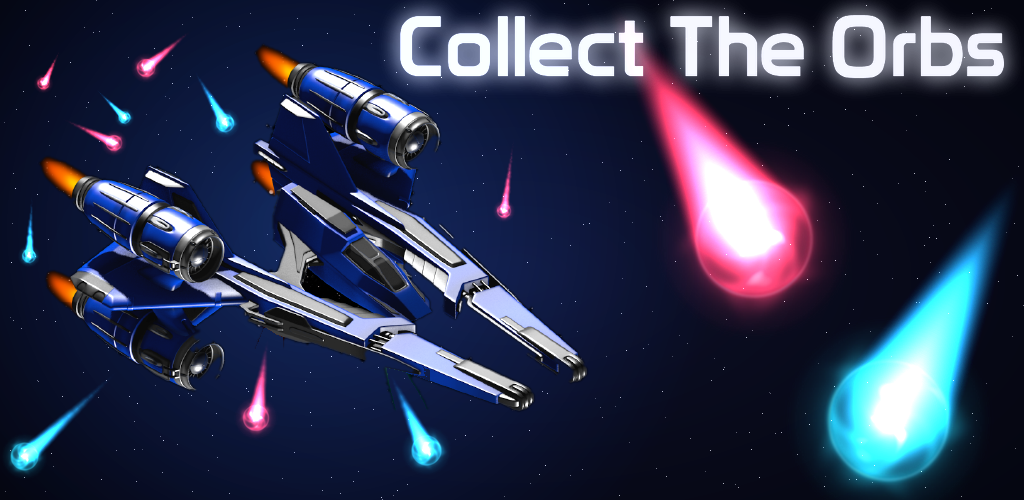
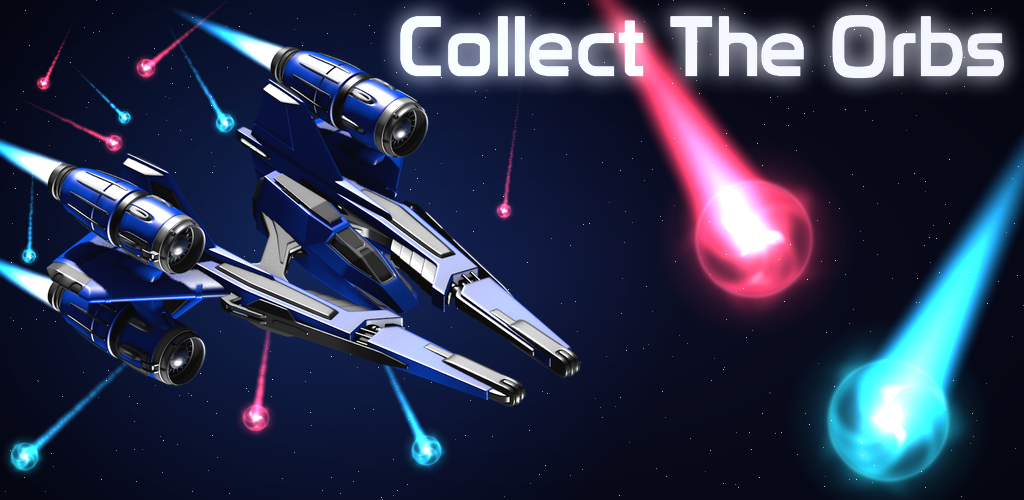
Store art: use the real fighter asset, game-style cyan plumes, longer orb trails

diff --git a/tools/art/store.py b/tools/art/store.py
@@ -97,19 +97,20 @@ def ship_layer(px, angle, ship_i=5):
     return sh.rotate(-angle, Image.BICUBIC, expand=True)
 
 
-def flame(base, tip, angle, length, width):
-    """Engine flame behind a ship pointing at `angle` (degrees clockwise from up): tapered additive glow, orange to white."""
+def flame(base, root, direction, length, width):
+    """Engine plume like the game's: cyan with a white-hot core, tapering away from the nozzle at `root`."""
     import math
-    dx, dy = math.sin(math.radians(angle)), -math.cos(math.radians(angle))
-    n = 40
+    dx, dy = direction
+    n = 60
     for k in range(n):
         f = k / n
-        px, py = tip[0] - dx * length * f, tip[1] - dy * length * f
-        sz = max(2, int(width * (1 - f * 0.8) * 2))
+        px, py = root[0] + dx * length * f, root[1] + dy * length * f
+        sz = max(2, int(width * (1 - f * 0.75) * 2))
         yy, xx = np.mgrid[0:sz, 0:sz].astype(np.float32)
         d = np.hypot(xx - sz / 2, yy - sz / 2) / (sz / 2)
-        al = np.clip(1 - d, 0, 1) ** 1.4 * (1 - f) * 255
-        col = (255, int(190 - 80 * f), int(90 - 60 * f))
+        al = np.clip(1 - d, 0, 1) ** 1.3 * (1 - f) ** 1.4 * 255
+        t = min(1.0, f * 2.2)
+        col = (int(235 - 195 * t), int(250 - 80 * t), 255)
         arr = np.dstack([np.full((sz, sz), col[0]), np.full((sz, sz), col[1]), np.full((sz, sz), col[2]), al]).astype(np.uint8)
         base = add(base, Image.fromarray(arr), (px, py))
     return base
@@ -131,28 +132,36 @@ ICON_ORBS = [
 ]
 
 
-def scene(w, h, orbs, ship_xy, scale=1.0, seed=3):
-    """The original blue fighter (tools/art/src/original_ship.png) with the neon orbs in the original positions."""
+SHIP_NOZZLES = [(395, 62), (52, 238), (52, 422)]   # engine rears in the 859x668 ship art
+SHIP_DIR = (-0.90, -0.43)                           # exhaust direction (away from the front)
+
+
+def scene(w, h, orbs, ship_xy, ship_scale, scale=1.0, seed=3, tail_mul=2.3):
+    """The original blue fighter (tools/art/src/original_ship.png) with game-style plumes and neon orbs in the original positions."""
     import math
     k = scale
     im = background(w, h, seed=seed, stars=1.3)
     sheets = {'b': ((40, 190, 255), img('fx/orb_blue.png'), 4), 'r': ((255, 60, 90), img('fx/orb_red.png'), 9)}
     for (hx, hy), (tx, ty), dia, c in orbs:
         col, sheet, fi = sheets[c]
-        length = math.hypot(hx - tx, hy - ty) * k
-        ang = math.degrees(math.atan2(hy - ty, hx - tx))
         big = dia > 60
-        im = comet(im, (hx * k, hy * k), col, length, ang, dia * k * (0.55 if big else 0.42), sheet, fi, int(dia * k * 1.78))
+        length = math.hypot(hx - tx, hy - ty) * k * (1.6 if big else tail_mul)
+        ang = math.degrees(math.atan2(hy - ty, hx - tx))
+        im = comet(im, (hx * k, hy * k), col, length, ang, dia * k * (0.45 if big else 0.30), sheet, fi, int(dia * k * 1.78))
     ship = Image.open(os.path.join(os.path.dirname(__file__), 'src', 'original_ship.png')).convert('RGBA')
-    ship = ship.resize((int(ship.width * k), int(ship.height * k)), Image.LANCZOS)
-    aura = N.radial(int(ship.width * 1.5), [(0, (40, 120, 255, 70)), (0.6, (30, 90, 230, 30)), (1.0, (20, 60, 200, 0))])
-    cx, cy = ship_xy[0] * k + ship.width / 2, ship_xy[1] * k + ship.height / 2
-    im = add(im, aura, (cx, cy))
+    sc = ship_scale * k
+    ship = ship.resize((int(ship.width * sc), int(ship.height * sc)), Image.LANCZOS)
+    ox, oy = ship_xy[0] * k, ship_xy[1] * k
+    aura = N.radial(int(ship.width * 1.4), [(0, (40, 120, 255, 60)), (0.6, (30, 90, 230, 26)), (1.0, (20, 60, 200, 0))])
+    im = add(im, aura, (ox + ship.width / 2, oy + ship.height / 2))
+    for nx, ny in SHIP_NOZZLES:
+        im = flame(im, (ox + nx * sc, oy + ny * sc), SHIP_DIR, 210 * sc, 26 * sc)
     layer = Image.new('RGBA', im.size, (0, 0, 0, 0))
-    layer.alpha_composite(ship, (int(ship_xy[0] * k), int(ship_xy[1] * k))) if ship_xy[0] >= 0 and ship_xy[1] >= 0 else layer.paste(
-        ship.crop((max(0, -int(ship_xy[0] * k)), max(0, -int(ship_xy[1] * k)), ship.width, ship.height)), (max(0, int(ship_xy[0] * k)), max(0, int(ship_xy[1] * k))))
-    im = Image.alpha_composite(im, layer)
-    return im
+    layer.alpha_composite(ship, (0, 0)) if False else None
+    big_layer = Image.new('RGBA', (im.width + 2 * ship.width, im.height + 2 * ship.height), (0, 0, 0, 0))
+    big_layer.alpha_composite(ship, (int(ox) + ship.width, int(oy) + ship.height))
+    layer = big_layer.crop((ship.width, ship.height, ship.width + im.width, ship.height + im.height))
+    return Image.alpha_composite(im, layer)
 
 
 def pad(mask, m=40):
@@ -162,11 +171,11 @@ def pad(mask, m=40):
 
 
 def composition(size=512):
-    return scene(size, size, ICON_ORBS, (-45, 137), size / 512.0)
+    return scene(size, size, ICON_ORBS, (-84, 105), 0.69, size / 512.0)
 
 
 def feature(w=1024, h=500):
-    im = scene(w, h, BANNER_ORBS, (35, 40), 1.0, seed=9)
+    im = scene(w, h, BANNER_ORBS, (29, 23), 0.65, 1.0, seed=9)
     N.set_scale(2)
     f = UI.BMFont('fonts/prototype128blueWhite')
     size = 40 * 610 / f.width('Collect The Orbs', 40)
